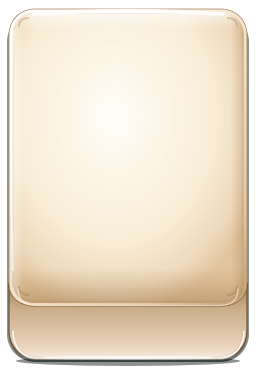
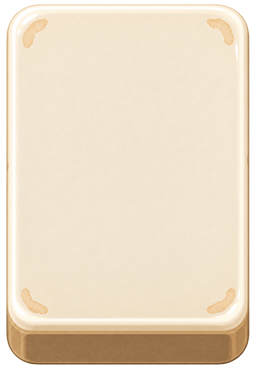
feat(art): adopt master ceramic front base and terracotta back with 1:1 3D perspective

diff --git a/docs/TILE_ART_PIPELINE.md b/docs/TILE_ART_PIPELINE.md
@@ -72,8 +72,8 @@ Editable tile masters live under `art-source/tiles/<skin>/`. Godot runtime tile 
 
 Rules:
 
-- SVG remains the canonical source format for flat face artwork and the shared Default ceramic base. Earlier orientation-specific raster masters remain under `art-source/tiles/default/bases/` as source history but are not selected by the active skin.
-- Runtime tile assets are transparent sRGB PNG files at 50% source scale. Face-down presentation reuses the canonical blank base and composites the selected independent back design.
+- SVG remains the canonical source format for flat face artwork. Master physical ceramic tile bases and terracotta backs use high-resolution 3D rendered raster masters with tactile bevels, debossed corner notches, and 1:1 front-and-back perspective alignment.
+- Runtime tile assets are transparent sRGB PNG files at 50% source scale. Face-down presentation reuses the canonical terracotta tile back and composites the selected independent back design.
 - Alpha is straight, not premultiplied.
 - File names are stable logical face IDs such as `bamboo_1.svg` and `red_dragon.svg`.
 - Runtime PNG files are generated outputs and must not be edited directly. The tile exporter downsamples raster base masters alongside SVG face masters.
